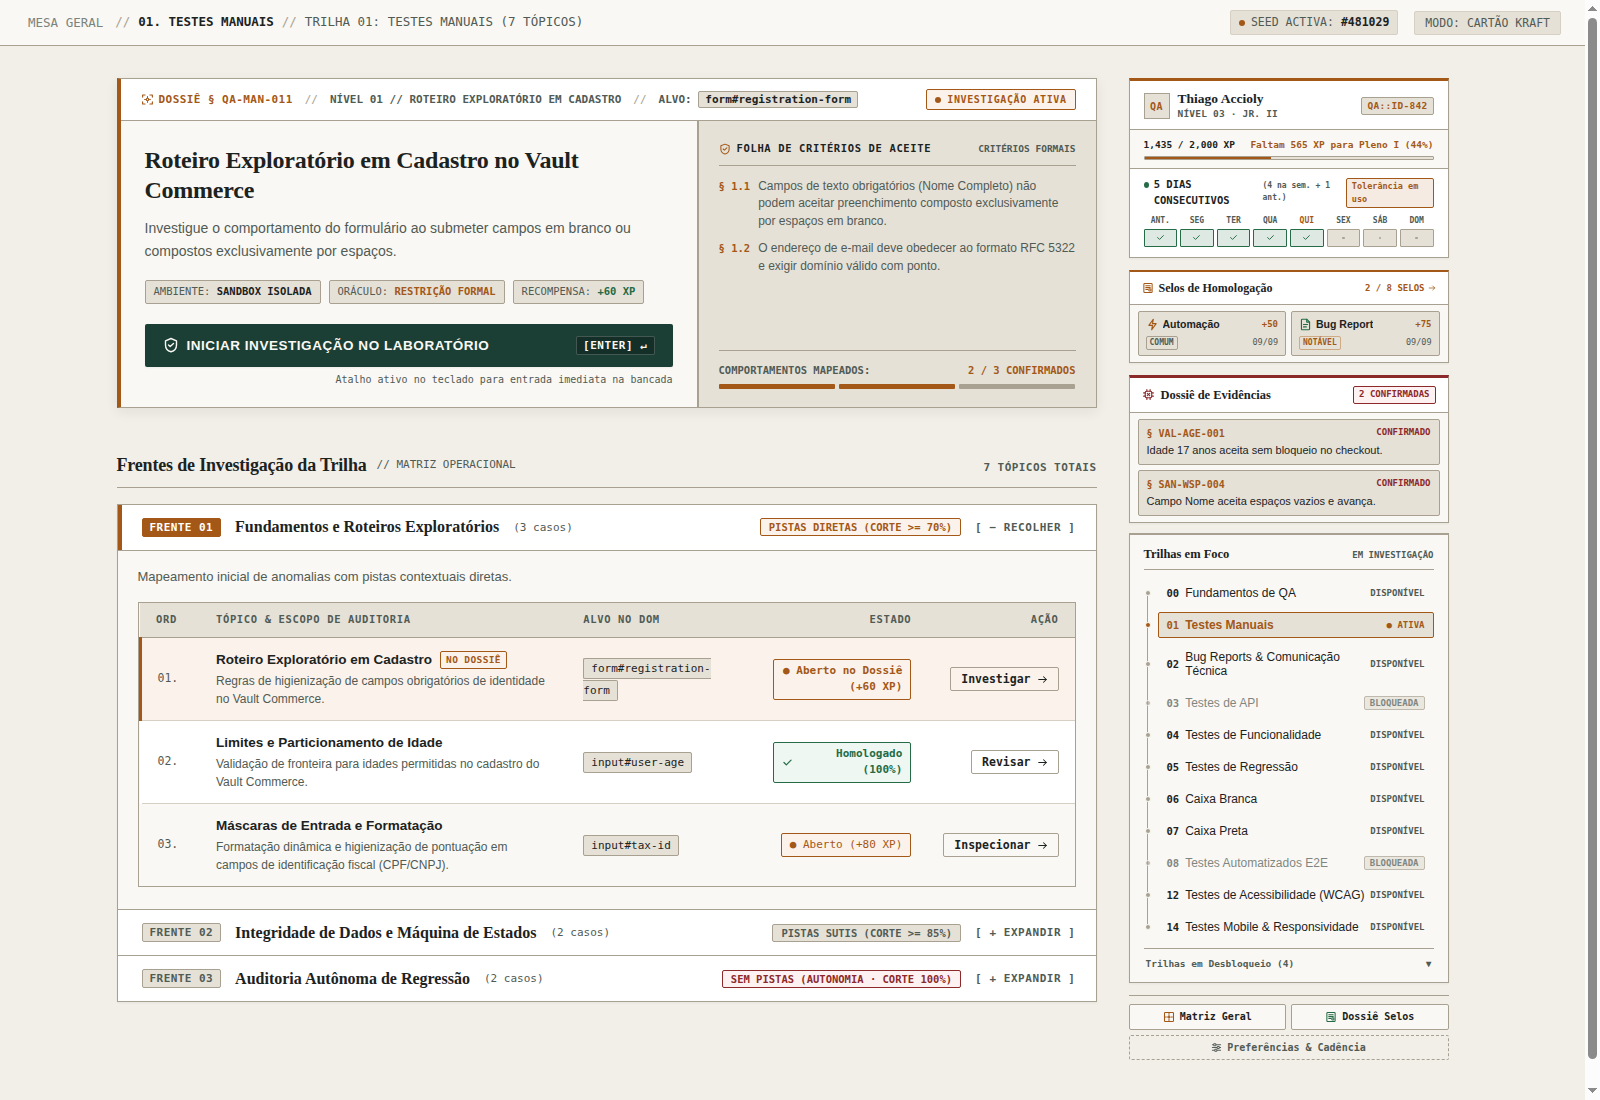
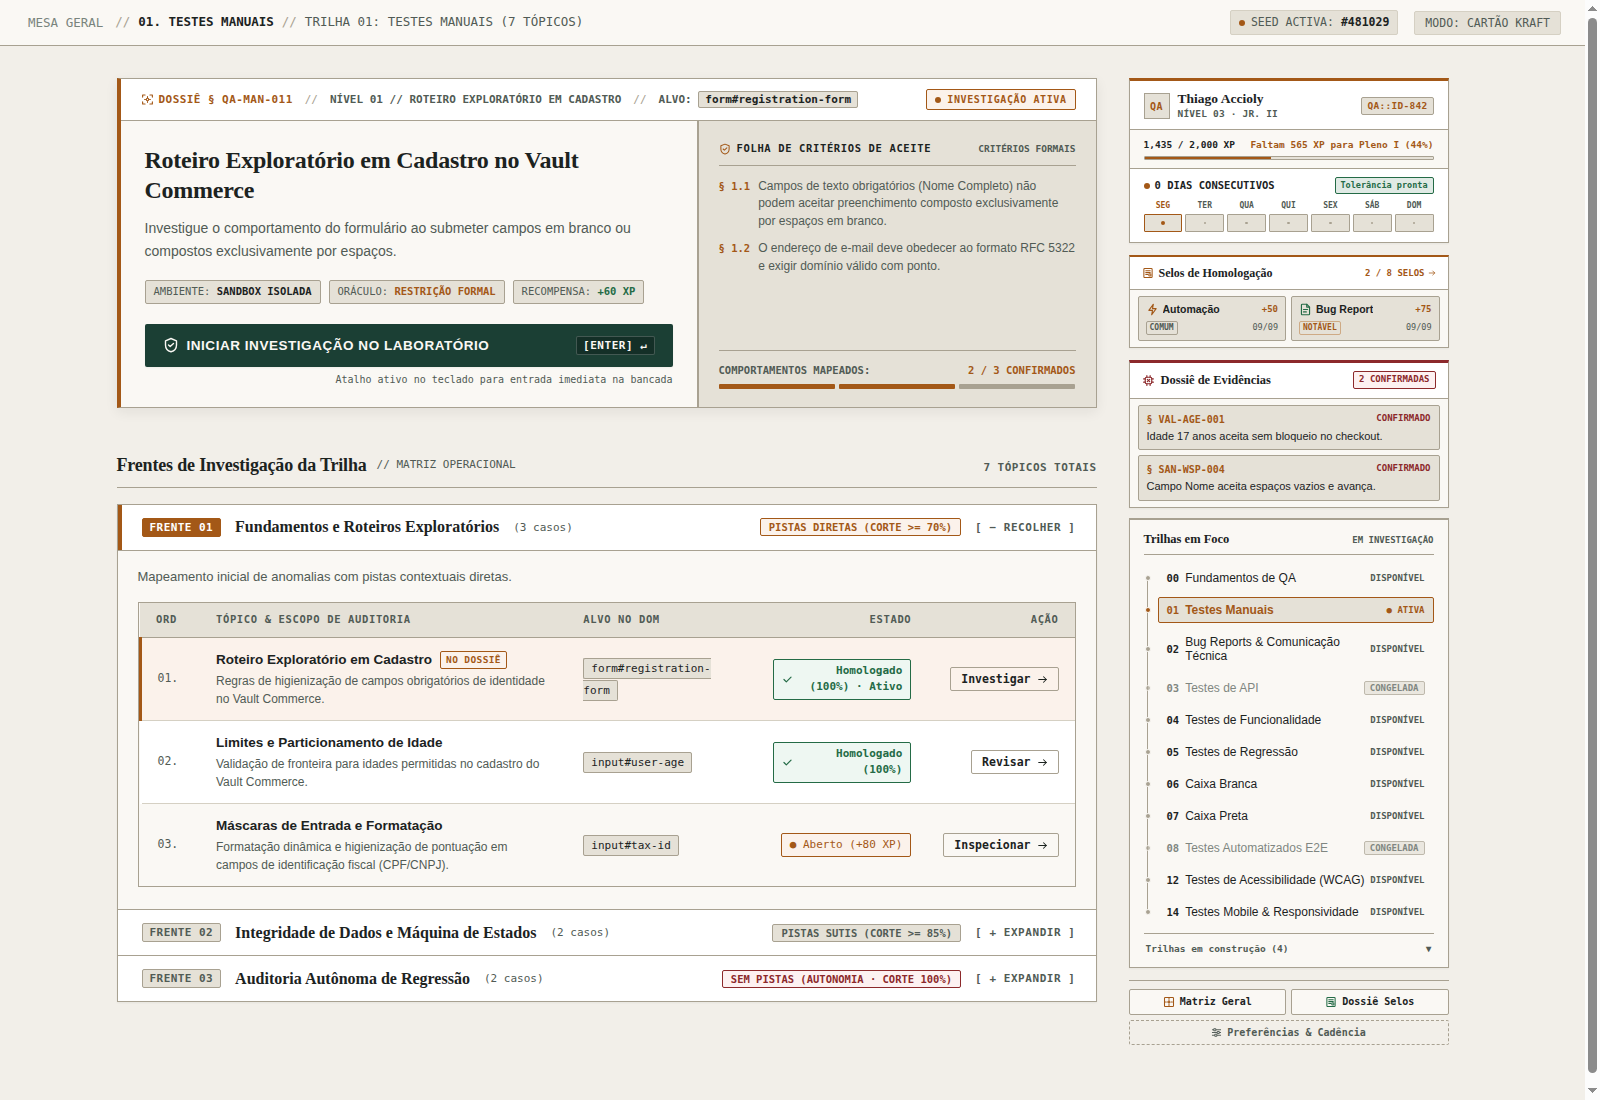
feat(desk): refine cadence header, decouple frozen tracks status, and enforce strict user scope on profile patch

Changed region(s): [[0.6875, 0.1545, 0.9062, 0.9582], [0.5, 0.5873, 0.5625, 0.6491]]

diff --git a/frontend/src/app/page.tsx b/frontend/src/app/page.tsx
@@ -10,21 +10,21 @@ import { BriefingModal } from '../components/BriefingModal';
 import { InvestigationWorkbenchModal } from '../components/InvestigationWorkbenchModal';
 
 const INITIAL_TRACKS: Track[] = [
-  { id: 0, number: 0, name: 'Fundamentos de QA', slug: 'fundamentos-qa', category: 'foundations', description: 'Onboarding guiado, anatomia web e oráculos de teste.', mini_site_route: '/mini-sites/vault-commerce/checkout/', order: 0 },
-  { id: 1, number: 1, name: 'Testes Manuais', slug: 'testes-manuais', category: 'foundations', description: 'Exploratório, oráculos e heurísticas.', mini_site_route: '/mini-sites/vault-commerce/checkout/', order: 1 },
-  { id: 2, number: 2, name: 'Bug Reports', slug: 'bug-reports', category: 'foundations', description: 'Escrita técnica com evidências e severidade.', mini_site_route: '/mini-sites/vault-commerce/checkout/', order: 2 },
-  { id: 3, number: 3, name: 'Testes de API', slug: 'testes-api', category: 'protocols', description: 'REST, status codes e contratos.', mini_site_route: '/mini-sites/faulty-api/', order: 3 },
-  { id: 4, number: 4, name: 'Testes de Funcionalidade', slug: 'testes-funcionalidade', category: 'foundations', description: 'Fluxos de negócio ponta a ponta.', mini_site_route: '/mini-sites/vault-commerce/checkout/', order: 4 },
-  { id: 5, number: 5, name: 'Testes de Regressão', slug: 'testes-regressao', category: 'foundations', description: 'Comparação de comportamento entre versões.', mini_site_route: '/mini-sites/vault-commerce/checkout/', order: 5 },
-  { id: 6, number: 6, name: 'Caixa Branca', slug: 'caixa-branca', category: 'structure', description: 'Caminhos lógicos e cobertura.', mini_site_route: '/mini-sites/vault-commerce/checkout/', order: 6 },
-  { id: 7, number: 7, name: 'Caixa Preta', slug: 'caixa-preta', category: 'structure', description: 'Auditoria externa sem acesso ao código.', mini_site_route: '/mini-sites/vault-commerce/checkout/', order: 7 },
-  { id: 8, number: 8, name: 'Testes Automatizados E2E', slug: 'testes-automatizados-e2e', category: 'automation', description: 'Scripts com Playwright.', mini_site_route: '/mini-sites/vault-commerce/checkout/', order: 8 },
-  { id: 9, number: 9, name: 'Testes Unitários', slug: 'testes-unitarios', category: 'structure', description: 'Captura de falhas lógicas sutis.', mini_site_route: '/mini-sites/unit-arena/', order: 9 },
-  { id: 10, number: 10, name: 'CI/CD para QA', slug: 'cicd-para-qa', category: 'automation', description: 'Pipelines e gates de qualidade.', mini_site_route: '/mini-sites/pipeline-sim/', order: 10 },
-  { id: 11, number: 11, name: 'Testes de Performance', slug: 'testes-performance', category: 'specialties', description: 'Telemetria de latência e carga.', mini_site_route: '/mini-sites/perf-dashboard/', order: 11 },
-  { id: 12, number: 12, name: 'Testes de Acessibilidade (WCAG)', slug: 'testes-acessibilidade-wcag', category: 'specialties', description: 'Barreiras reais de teclado e contraste.', mini_site_route: '/mini-sites/vault-commerce/checkout/', order: 12 },
-  { id: 13, number: 13, name: 'Testes de Segurança (Nível QA)', slug: 'testes-seguranca', category: 'protocols', description: 'Sanitização e exposição de dados.', mini_site_route: '/mini-sites/sec-vault/', order: 13 },
-  { id: 14, number: 14, name: 'Mobile Testing', slug: 'mobile-testing', category: 'specialties', description: 'Contexto mobile e interrupções.', mini_site_route: '/mini-sites/vault-commerce/checkout/', order: 14 },
+  { id: 0, number: 0, name: 'Fundamentos de QA', slug: 'fundamentos-qa', category: 'foundations', description: 'Onboarding guiado, anatomia web e oráculos de teste.', mini_site_route: '/mini-sites/vault-commerce/checkout/', order: 0, status: 'available', is_frozen: false },
+  { id: 1, number: 1, name: 'Testes Manuais', slug: 'testes-manuais', category: 'foundations', description: 'Exploratório, oráculos e heurísticas.', mini_site_route: '/mini-sites/vault-commerce/checkout/', order: 1, status: 'available', is_frozen: false },
+  { id: 2, number: 2, name: 'Bug Reports', slug: 'bug-reports', category: 'foundations', description: 'Escrita técnica com evidências e severidade.', mini_site_route: '/mini-sites/vault-commerce/checkout/', order: 2, status: 'available', is_frozen: false },
+  { id: 3, number: 3, name: 'Testes de API', slug: 'testes-api', category: 'protocols', description: 'REST, status codes e contratos.', mini_site_route: '/mini-sites/faulty-api/', order: 3, status: 'frozen', is_frozen: true },
+  { id: 4, number: 4, name: 'Testes de Funcionalidade', slug: 'testes-funcionalidade', category: 'foundations', description: 'Fluxos de negócio ponta a ponta.', mini_site_route: '/mini-sites/vault-commerce/checkout/', order: 4, status: 'available', is_frozen: false },
+  { id: 5, number: 5, name: 'Testes de Regressão', slug: 'testes-regressao', category: 'foundations', description: 'Comparação de comportamento entre versões.', mini_site_route: '/mini-sites/vault-commerce/checkout/', order: 5, status: 'available', is_frozen: false },
+  { id: 6, number: 6, name: 'Caixa Branca', slug: 'caixa-branca', category: 'structure', description: 'Caminhos lógicos e cobertura.', mini_site_route: '/mini-sites/vault-commerce/checkout/', order: 6, status: 'available', is_frozen: false },
+  { id: 7, number: 7, name: 'Caixa Preta', slug: 'caixa-preta', category: 'structure', description: 'Auditoria externa sem acesso ao código.', mini_site_route: '/mini-sites/vault-commerce/checkout/', order: 7, status: 'available', is_frozen: false },
+  { id: 8, number: 8, name: 'Testes Automatizados E2E', slug: 'testes-automatizados-e2e', category: 'automation', description: 'Scripts com Playwright.', mini_site_route: '/mini-sites/vault-commerce/checkout/', order: 8, status: 'frozen', is_frozen: true },
+  { id: 9, number: 9, name: 'Testes Unitários', slug: 'testes-unitarios', category: 'structure', description: 'Captura de falhas lógicas sutis.', mini_site_route: '/mini-sites/unit-arena/', order: 9, status: 'in_construction', is_frozen: false },
+  { id: 10, number: 10, name: 'CI/CD para QA', slug: 'cicd-para-qa', category: 'automation', description: 'Pipelines e gates de qualidade.', mini_site_route: '/mini-sites/pipeline-sim/', order: 10, status: 'in_construction', is_frozen: false },
+  { id: 11, number: 11, name: 'Testes de Performance', slug: 'testes-performance', category: 'specialties', description: 'Telemetria de latência e carga.', mini_site_route: '/mini-sites/perf-dashboard/', order: 11, status: 'in_construction', is_frozen: false },
+  { id: 12, number: 12, name: 'Testes de Acessibilidade (WCAG)', slug: 'testes-acessibilidade-wcag', category: 'specialties', description: 'Barreiras reais de teclado e contraste.', mini_site_route: '/mini-sites/vault-commerce/checkout/', order: 12, status: 'available', is_frozen: false },
+  { id: 13, number: 13, name: 'Testes de Segurança (Nível QA)', slug: 'testes-seguranca', category: 'protocols', description: 'Sanitização e exposição de dados.', mini_site_route: '/mini-sites/sec-vault/', order: 13, status: 'in_construction', is_frozen: false },
+  { id: 14, number: 14, name: 'Mobile Testing', slug: 'mobile-testing', category: 'specialties', description: 'Contexto mobile e interrupções.', mini_site_route: '/mini-sites/vault-commerce/checkout/', order: 14, status: 'available', is_frozen: false },
 ];
 
 const INITIAL_MODULES: Module[] = [
@@ -156,14 +156,18 @@ export default function InvestigationDeskPage() {
 
   const handleOpenTopic = (topic: Topic) => {
     setSelectedTopic(topic);
-    setBackendActiveTopicCode(topic.code);
     setIsBriefingOpen(true);
-    // Sincroniza tópico ativo no backend do AnalystProfile
-    fetch('http://127.0.0.1:8000/api/v1/gamification/profile/', {
-      method: 'PATCH',
-      headers: { 'Content-Type': 'application/json' },
-      body: JSON.stringify({ active_topic_code: topic.code })
-    }).catch(() => {});
+    // Sincroniza tópico ativo no backend do AnalystProfile exclusivamente se houver mudança de tópico
+    if (backendActiveTopicCode !== topic.code) {
+      setBackendActiveTopicCode(topic.code);
+      fetch('http://127.0.0.1:8000/api/v1/gamification/profile/', {
+        method: 'PATCH',
+        headers: { 'Content-Type': 'application/json' },
+        body: JSON.stringify({ active_topic_code: topic.code })
+      }).catch(err => {
+        console.warn('Falha ao persistir tópico ativo via PATCH:', err);
+      });
+    }
   };
 
   const handleEnterLab = (topic?: Topic) => {

diff --git a/frontend/src/components/AnalystSidebar.tsx b/frontend/src/components/AnalystSidebar.tsx
@@ -141,10 +141,9 @@ export const AnalystSidebar: React.FC<AnalystSidebarProps> = ({
     fetchBadges();
   }, [fetchProfile, fetchBadges, externalXp]);
 
-  const inFocusNumbers = [0, 1, 2, 3, 4, 5, 6, 7, 8, 12, 14];
-  const FROZEN_TRACK_NUMBERS = [3, 8]; // Congeladas formalmente per ADR-0013
-  const activeAndNextTracks = tracks.filter(t => inFocusNumbers.includes(t.number));
-  const lockedTracks = tracks.filter(t => !inFocusNumbers.includes(t.number));
+  // Derivação 100% dinâmica a partir do backend (Track.status e Track.is_frozen)
+  const activeAndNextTracks = tracks.filter(t => t.status !== 'in_construction');
+  const inConstructionTracks = tracks.filter(t => t.status === 'in_construction');
 
   const displayXp = externalXp !== undefined ? externalXp : (profile ? profile.total_xp : 1435);
 
@@ -387,16 +386,6 @@ export const AnalystSidebar: React.FC<AnalystSidebarProps> = ({
                       }}>
                         {streak.current_streak} {streak.current_streak === 1 ? 'DIA AUDITADO' : 'DIAS CONSECUTIVOS'}
                       </span>
-                      {priorAuditedDays > 0 && (
-                        <span style={{
-                          fontFamily: 'var(--font-mono)',
-                          fontSize: '8px',
-                          color: 'var(--text-secondary)',
-                          fontWeight: 600
-                        }}>
-                          ({daysInWeekAudited} na sem. + {priorAuditedDays} ant.)
-                        </span>
-                      )}
                     </div>
 
                     <span style={{
@@ -794,7 +783,7 @@ export const AnalystSidebar: React.FC<AnalystSidebarProps> = ({
 
             {activeAndNextTracks.map(t => {
               const isActive = t.number === activeTrackNumber;
-              const isFrozen = FROZEN_TRACK_NUMBERS.includes(t.number);
+              const isFrozen = Boolean(t.is_frozen || t.status === 'frozen');
 
               return (
                 <button
@@ -852,15 +841,15 @@ export const AnalystSidebar: React.FC<AnalystSidebarProps> = ({
                     borderRadius: isFrozen ? '2px' : '0',
                     backgroundColor: isFrozen ? 'var(--bg-surface-sunken)' : 'transparent'
                   }}>
-                    {isFrozen ? 'BLOQUEADA' : (isActive ? '● ATIVA' : 'DISPONÍVEL')}
+                    {isFrozen ? 'CONGELADA' : (isActive ? '● ATIVA' : 'DISPONÍVEL')}
                   </span>
                 </button>
               );
             })}
           </div>
 
-          {/* TRILHAS BLOQUEADAS RECOLHÍVEIS */}
-          {lockedTracks.length > 0 && (
+          {/* TRILHAS EM CONSTRUÇÃO RECOLHÍVEIS */}
+          {inConstructionTracks.length > 0 && (
             <div style={{ marginTop: '8px', paddingTop: '6px', borderTop: '1px solid var(--border-strong)' }}>
               <button
                 type="button"
@@ -880,13 +869,13 @@ export const AnalystSidebar: React.FC<AnalystSidebarProps> = ({
                   cursor: 'pointer'
                 }}
               >
-                <span>Trilhas em Desbloqueio ({lockedTracks.length})</span>
+                <span>Trilhas em construção ({inConstructionTracks.length})</span>
                 <span>{showLockedTracks ? '▲' : '▼'}</span>
               </button>
 
               {showLockedTracks && (
                 <div style={{ display: 'flex', flexDirection: 'column', gap: '3px', marginTop: '4px' }}>
-                  {lockedTracks.map(t => (
+                  {inConstructionTracks.map(t => (
                     <div
                       key={t.id}
                       style={{
@@ -903,14 +892,18 @@ export const AnalystSidebar: React.FC<AnalystSidebarProps> = ({
                       <span>{String(t.number).padStart(2, '0')}. {t.name}</span>
                       <span style={{
                         fontFamily: 'var(--font-mono)',
-                        fontSize: '9px',
+                        fontSize: '8.5px',
                         display: 'flex',
                         alignItems: 'center',
                         gap: '3px',
-                        fontWeight: 600
+                        fontWeight: 600,
+                        color: 'var(--text-secondary)',
+                        padding: '1px 5px',
+                        borderRadius: '2px',
+                        backgroundColor: 'var(--bg-surface-sunken)',
+                        border: '1px solid var(--border-strong)'
                       }}>
-                        <IconSecurityLatch size={9} />
-                        NÍVEL {t.number}
+                        EM CONSTRUÇÃO
                       </span>
                     </div>
                   ))}

diff --git a/frontend/src/types/curriculum.ts b/frontend/src/types/curriculum.ts
@@ -8,6 +8,8 @@ export interface Track {
   mini_site_route: string;
   order: number;
   module_count?: number;
+  status?: 'available' | 'frozen' | 'in_construction';
+  is_frozen?: boolean;
 }
 
 export interface OracleCriterion {

diff --git a/backend/apps/gamification/tests.py b/backend/apps/gamification/tests.py
@@ -389,3 +389,62 @@ class GamificationEngineTestCase(TestCase):
 
         # Atingiu 5 ensaios no topic1 -> badge METHODICAL_EXPLORATION concedida!
         self.assertTrue(UserBadge.objects.filter(user=self.user, badge__code='METHODICAL_EXPLORATION').exists())
+
+    def test_patch_profile_scopes_strictly_to_request_user_and_ignores_foreign_identifiers(self):
+        """
+        Seguranca de Escopo (Item 4):
+        O endpoint PATCH /api/v1/gamification/profile/ resolve o perfil EXCLUSIVAMENTE a partir
+        de request.user e ignora categoricamente qualquer id de perfil, id de usuario ou
+        analyst_id alheio enviado no corpo da requisicao.
+        Nenhum usuario pode sequestrar ou alterar o topico ativo de outro analista.
+        """
+        # Cria usuario B com seu perfil independente
+        user_b = User.objects.create_user(
+            username='analyst_bob',
+            first_name='Bob',
+            last_name='Fischer',
+            email='bob@qa.internal'
+        )
+        profile_a = GamificationService.get_or_create_profile(self.user)
+        profile_b = GamificationService.get_or_create_profile(user_b)
+
+        profile_a.active_topic = self.topic1
+        profile_a.save()
+        profile_b.active_topic = self.topic1
+        profile_b.save()
+
+        # Autentica como Usuario A (Carlos)
+        self.client.force_login(self.user)
+
+        # Envia payload hostil com IDs do Usuario B tentando alterar o perfil do Bob
+        malicious_payload = {
+            "active_topic_code": self.topic2.code,
+            "id": profile_b.id,
+            "user_id": user_b.id,
+            "profile_id": profile_b.id,
+            "analyst_id": profile_b.analyst_id
+        }
+        response = self.client.patch(
+            '/api/v1/gamification/profile/',
+            data=malicious_payload,
+            content_type='application/json'
+        )
+
+        self.assertEqual(response.status_code, 200)
+
+        # Recarrega do banco
+        profile_a.refresh_from_db()
+        profile_b.refresh_from_db()
+
+        # O perfil do usuario autenticado A foi atualizado para o topic2
+        self.assertEqual(profile_a.active_topic, self.topic2)
+        # O perfil do usuario B PERMANECEU INTACTO no topic1 (sem sequestro de sessao)
+        self.assertEqual(profile_b.active_topic, self.topic1)
+
+        # Valida que topico inexistente retorna 400 Bad Request
+        bad_response = self.client.patch(
+            '/api/v1/gamification/profile/',
+            data={"active_topic_code": "QA-INVALID-CODE"},
+            content_type='application/json'
+        )
+        self.assertEqual(bad_response.status_code, 400)

diff --git a/backend/apps/curriculum/models.py b/backend/apps/curriculum/models.py
@@ -1,5 +1,10 @@
 from django.db import models
 
+class TrackStatus(models.TextChoices):
+    AVAILABLE = 'available', 'Disponivel'
+    FROZEN = 'frozen', 'Congelada'
+    IN_CONSTRUCTION = 'in_construction', 'Em Construcao'
+
 class TrackCategory(models.TextChoices):
     FOUNDATIONS = 'foundations', 'Fundações & Processos'
     STRUCTURE = 'structure', 'Estrutura & Lógica Interna'
@@ -16,7 +21,31 @@ class Track(models.Model):
     mini_site_route = models.CharField(max_length=200, help_text="Rota do iframe sandboxed (ex: /mini-sites/manual-vault/)")
     color_theme = models.CharField(max_length=60, default="default-track")
     is_active = models.BooleanField(default=True)
+    status = models.CharField(
+        max_length=30,
+        choices=TrackStatus.choices,
+        default=TrackStatus.AVAILABLE,
+        help_text="Estado de disponibilidade da trilha (available, frozen, in_construction)"
+    )
     order = models.PositiveIntegerField(default=0)
+
+    @property
+    def computed_status(self):
+        """
+        Retorna o status efetivo da trilha.
+        Se a trilha estiver marcada como FROZEN (ADR-0013), mas ja possuir comportamentos
+        e topicos cadastrados para execucao, ela e liberada automaticamente para AVAILABLE.
+        """
+        if self.status == TrackStatus.FROZEN:
+            has_behaviors = self.modules.filter(topics__behaviors__isnull=False).exists()
+            if has_behaviors:
+                return TrackStatus.AVAILABLE
+        return self.status
+
+    @property
+    def is_frozen(self):
+        return self.computed_status == TrackStatus.FROZEN
+
 
     class Meta:
         ordering = ['number']

diff --git a/backend/apps/gamification/views.py b/backend/apps/gamification/views.py
@@ -40,14 +40,24 @@ class ProfileAPIView(APIView):
         return Response(serializer.data, status=status.HTTP_200_OK)
 
     def patch(self, request):
+        """
+        Atualiza campos permitidos do perfil do analista autenticado (ex: active_topic_code).
+        Segurança: O perfil é resolvido EXCLUSIVAMENTE a partir de request.user.
+        Qualquer identificador alheio (id, user_id, profile_id, analyst_id) presente
+        no corpo da requisição é categoricamente ignorado.
+        """
         user = get_current_user(request)
         profile = GamificationService.get_or_create_profile(user)
         topic_code = request.data.get('active_topic_code')
         if topic_code:
             topic = Topic.objects.filter(code=topic_code).first()
-            if topic:
-                profile.active_topic = topic
-                profile.save(update_fields=['active_topic'])
+            if not topic:
+                return Response(
+                    {'error': f"Topico com codigo '{topic_code}' nao encontrado."},
+                    status=status.HTTP_400_BAD_REQUEST
+                )
+            profile.active_topic = topic
+            profile.save(update_fields=['active_topic'])
         serializer = AnalystProfileSerializer(profile)
         return Response(serializer.data, status=status.HTTP_200_OK)
 

diff --git a/backend/apps/curriculum/serializers.py b/backend/apps/curriculum/serializers.py
@@ -51,14 +51,18 @@ class ModuleSerializer(serializers.ModelSerializer):
 
 class TrackListSerializer(serializers.ModelSerializer):
     module_count = serializers.IntegerField(source='modules.count', read_only=True)
+    status = serializers.CharField(source='computed_status', read_only=True)
+    is_frozen = serializers.BooleanField(read_only=True)
 
     class Meta:
         model = Track
-        fields = ['id', 'number', 'name', 'slug', 'category', 'description', 'mini_site_route', 'order', 'module_count']
+        fields = ['id', 'number', 'name', 'slug', 'category', 'description', 'mini_site_route', 'order', 'module_count', 'status', 'is_frozen']
 
 class TrackDetailSerializer(serializers.ModelSerializer):
     modules = ModuleSerializer(many=True, read_only=True)
+    status = serializers.CharField(source='computed_status', read_only=True)
+    is_frozen = serializers.BooleanField(read_only=True)
 
     class Meta:
         model = Track
-        fields = ['id', 'number', 'name', 'slug', 'category', 'description', 'mini_site_route', 'color_theme', 'order', 'modules']
+        fields = ['id', 'number', 'name', 'slug', 'category', 'description', 'mini_site_route', 'color_theme', 'order', 'modules', 'status', 'is_frozen']

diff --git a/backend/apps/curriculum/migrations/0003_track_status.py b/backend/apps/curriculum/migrations/0003_track_status.py
@@ -1,0 +1,18 @@
+# Generated by Django 5.1.15 on 2026-09-14 16:46
+
+from django.db import migrations, models
+
+
+class Migration(migrations.Migration):
+
+    dependencies = [
+        ('curriculum', '0002_topic_oracle_criteria'),
+    ]
+
+    operations = [
+        migrations.AddField(
+            model_name='track',
+            name='status',
+            field=models.CharField(choices=[('available', 'Disponivel'), ('frozen', 'Congelada'), ('in_construction', 'Em Construcao')], default='available', help_text='Estado de disponibilidade da trilha (available, frozen, in_construction)', max_length=30),
+        ),
+    ]
